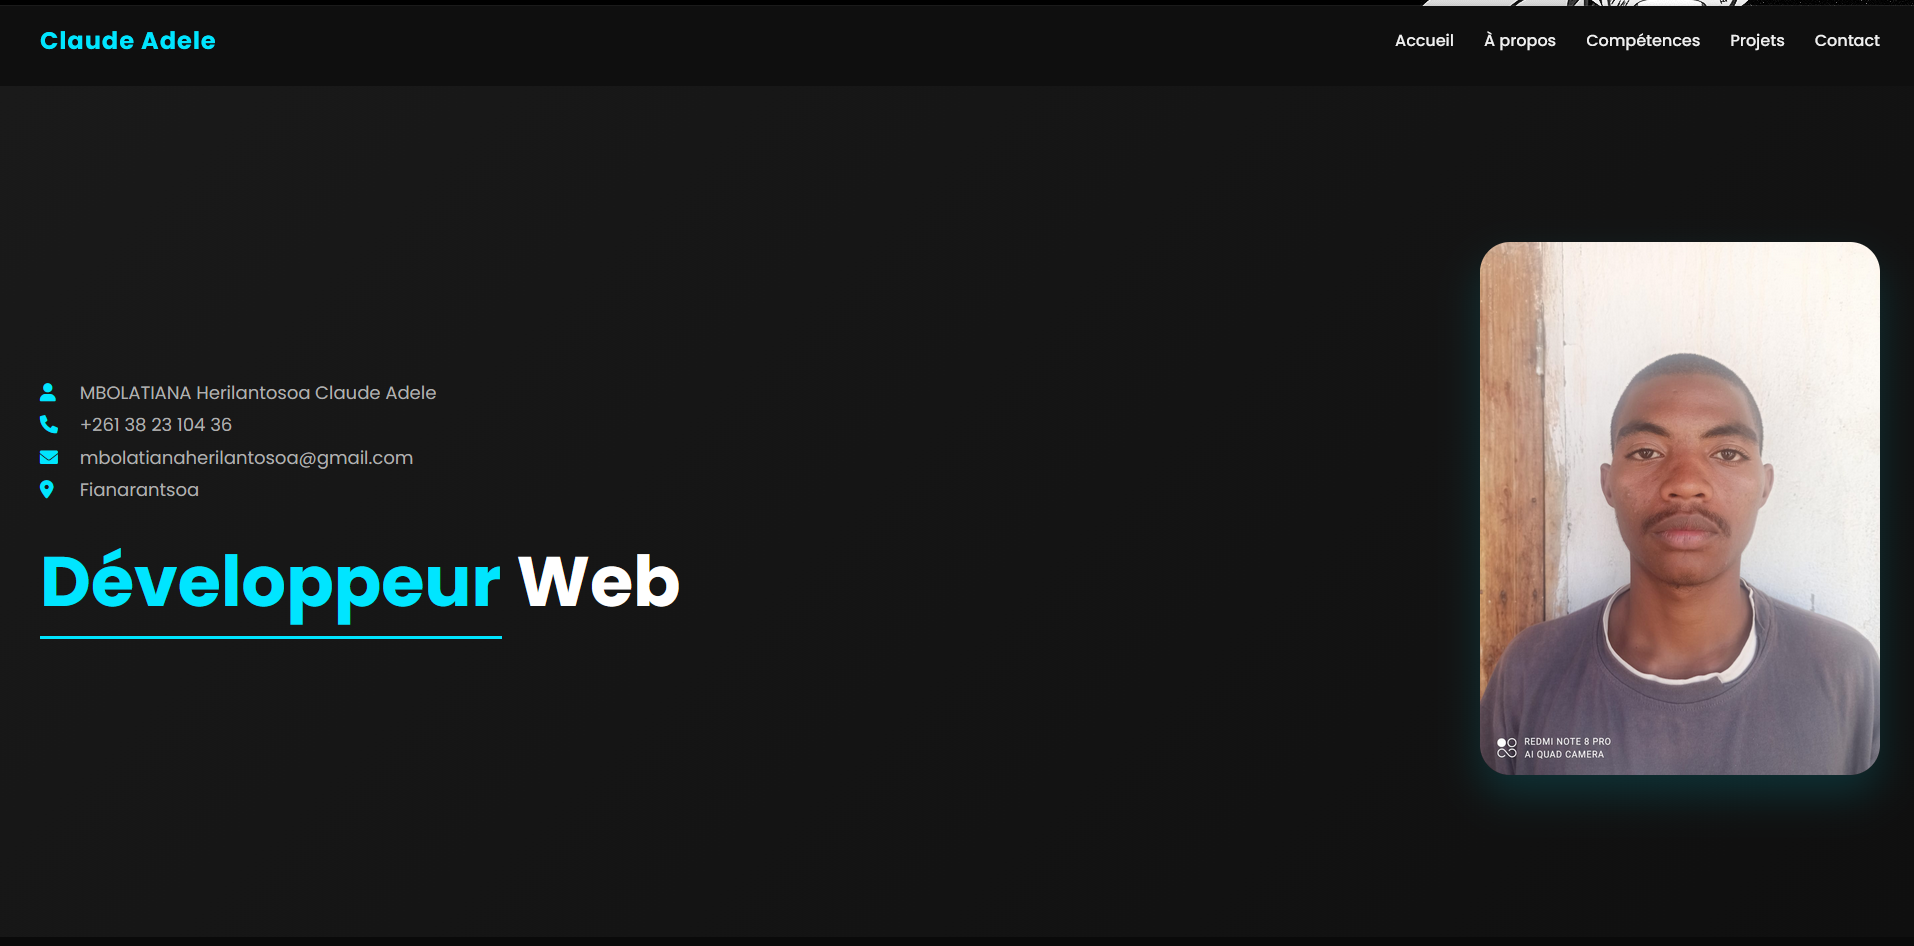
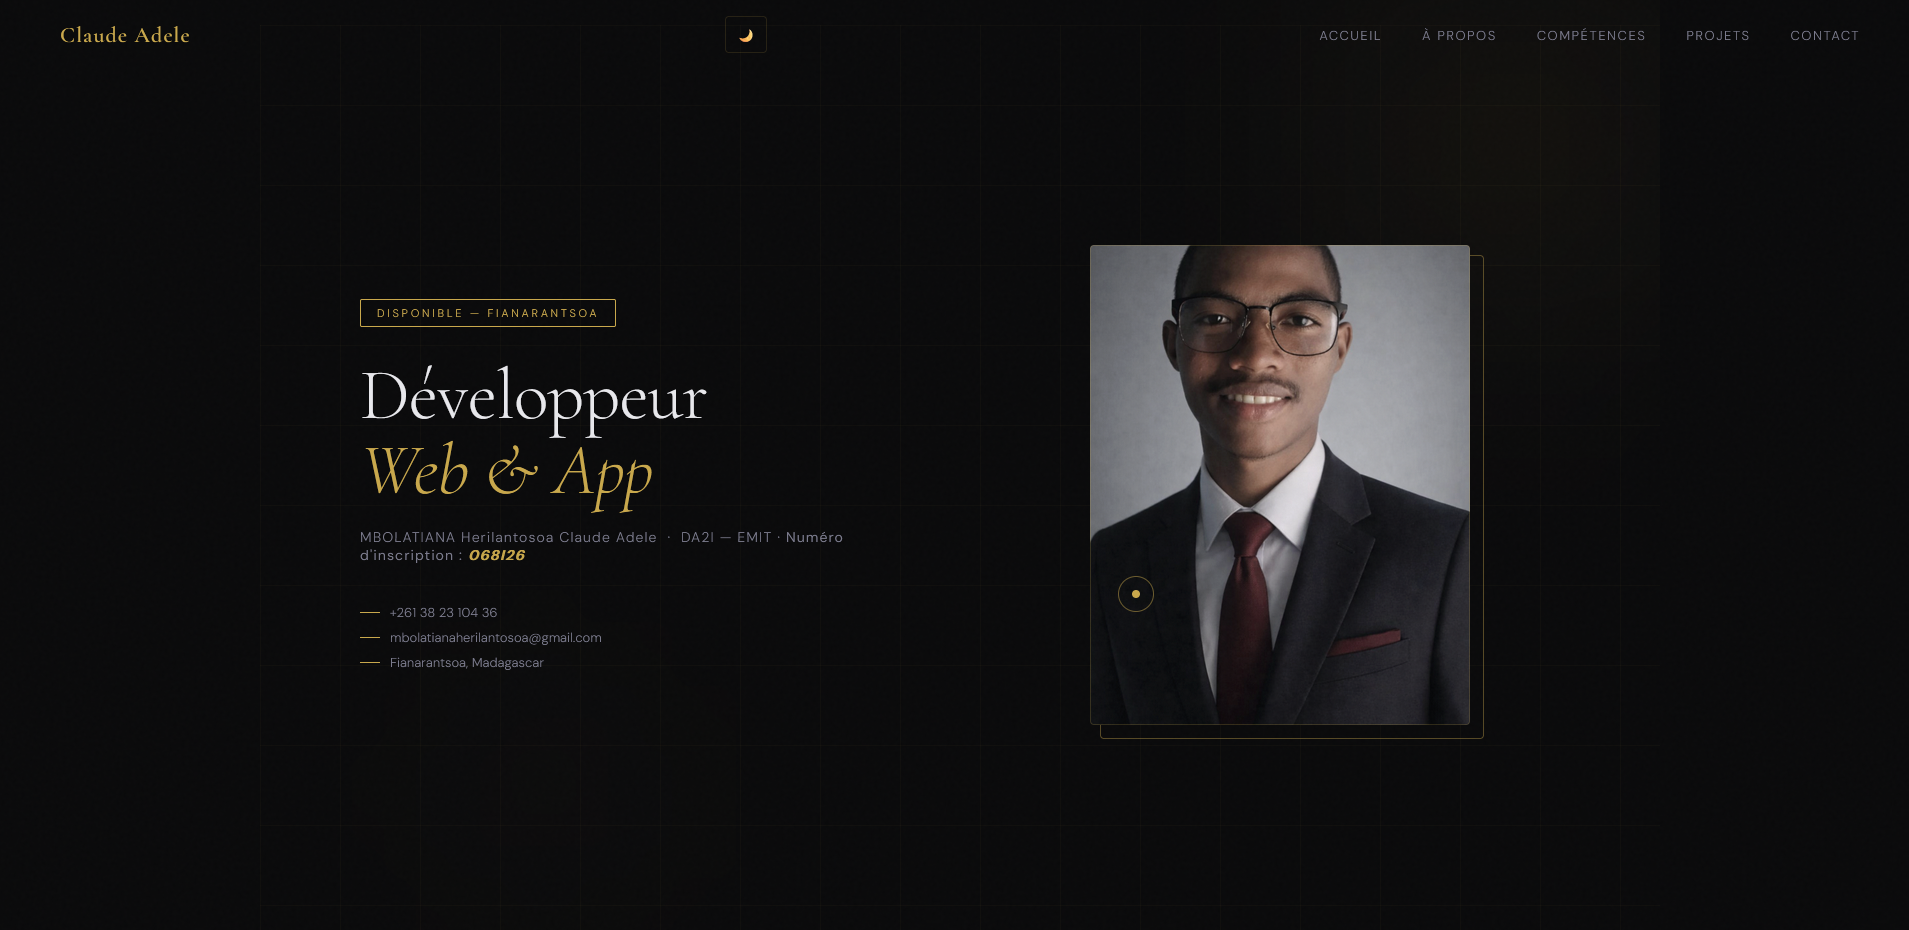
Ajout de la numero d'inscription

diff --git a/index.html b/index.html
@@ -46,7 +46,8 @@
           <h1 class="hero-name">Développeur<br /><em>Web & App</em></h1>
           <p class="hero-title">
             MBOLATIANA Herilantosoa Claude Adele &nbsp;·&nbsp; DA2I —
-            EMIT&nbsp;·&nbsp;<strong>Numéro d'inscription :</strong> 068I26
+            EMIT&nbsp;·&nbsp;<strong>Numéro d'inscription :</strong>
+            <span class="reg-number">068I26</span>
           </p>
           <div class="hero-contacts">
             <span>+261 38 23 104 36</span>
@@ -81,7 +82,10 @@
               Développement d'Applications Internet et Intranet (DA2I) à l'École
               de Management et d'Innovation Technologique (EMIT) à Fianarantsoa.
             </p>
-            <p><strong>Numéro d'inscription :</strong> 068I26</p>
+            <p>
+              <strong>Numéro d'inscription :</strong>
+              <span class="reg-number">068I26</span>
+            </p>
             <br />
             <p>
               Passionné par la technologie et le développement web, j'aime
@@ -202,57 +206,6 @@
               </p>
               <div class="project-tech">
                 <span>HTML</span><span>CSS</span><span>JavaScript</span>
-              </div>
-            </div>
-          </div>
-          <div class="project-card reveal" style="transition-delay: 0.1s">
-            <div class="project-img-placeholder">
-              <span class="pnum">02</span>
-            </div>
-            <div class="project-border"></div>
-            <div class="project-overlay">
-              <div class="project-cat">Application</div>
-              <h3 class="project-title">Gestion des Étudiants</h3>
-              <p class="project-desc">
-                Application CRUD complète pour la gestion des informations
-                académiques.
-              </p>
-              <div class="project-tech">
-                <span>Java</span><span>MySQL</span>
-              </div>
-            </div>
-          </div>
-          <div class="project-card reveal" style="transition-delay: 0.2s">
-            <div class="project-img-placeholder">
-              <span class="pnum">03</span>
-            </div>
-            <div class="project-border"></div>
-            <div class="project-overlay">
-              <div class="project-cat">E-commerce</div>
-              <h3 class="project-title">Mini Site E-commerce</h3>
-              <p class="project-desc">
-                Plateforme e-commerce avec gestion des produits, catégories et
-                panier.
-              </p>
-              <div class="project-tech">
-                <span>HTML</span><span>CSS</span><span>JavaScript</span>
-              </div>
-            </div>
-          </div>
-          <div class="project-card reveal" style="transition-delay: 0.3s">
-            <div class="project-img-placeholder">
-              <span class="pnum">04</span>
-            </div>
-            <div class="project-border"></div>
-            <div class="project-overlay">
-              <div class="project-cat">Gestion</div>
-              <h3 class="project-title">Système de Bibliothèque</h3>
-              <p class="project-desc">
-                Gestion des livres, emprunts et retours avec interface
-                intuitive.
-              </p>
-              <div class="project-tech">
-                <span>Java</span><span>MS Access</span>
               </div>
             </div>
           </div>

diff --git a/style.css b/style.css
@@ -280,6 +280,13 @@ header.scrolled {
   opacity: 0;
   animation: fadeUp 0.8s 0.7s forwards;
 }
+
+/* Style pour le numéro d'inscription */
+.reg-number {
+  color: var(--gold);
+  font-weight: 700;
+  font-style: italic;
+}
 .hero-contacts {
   display: flex;
   flex-direction: column;
